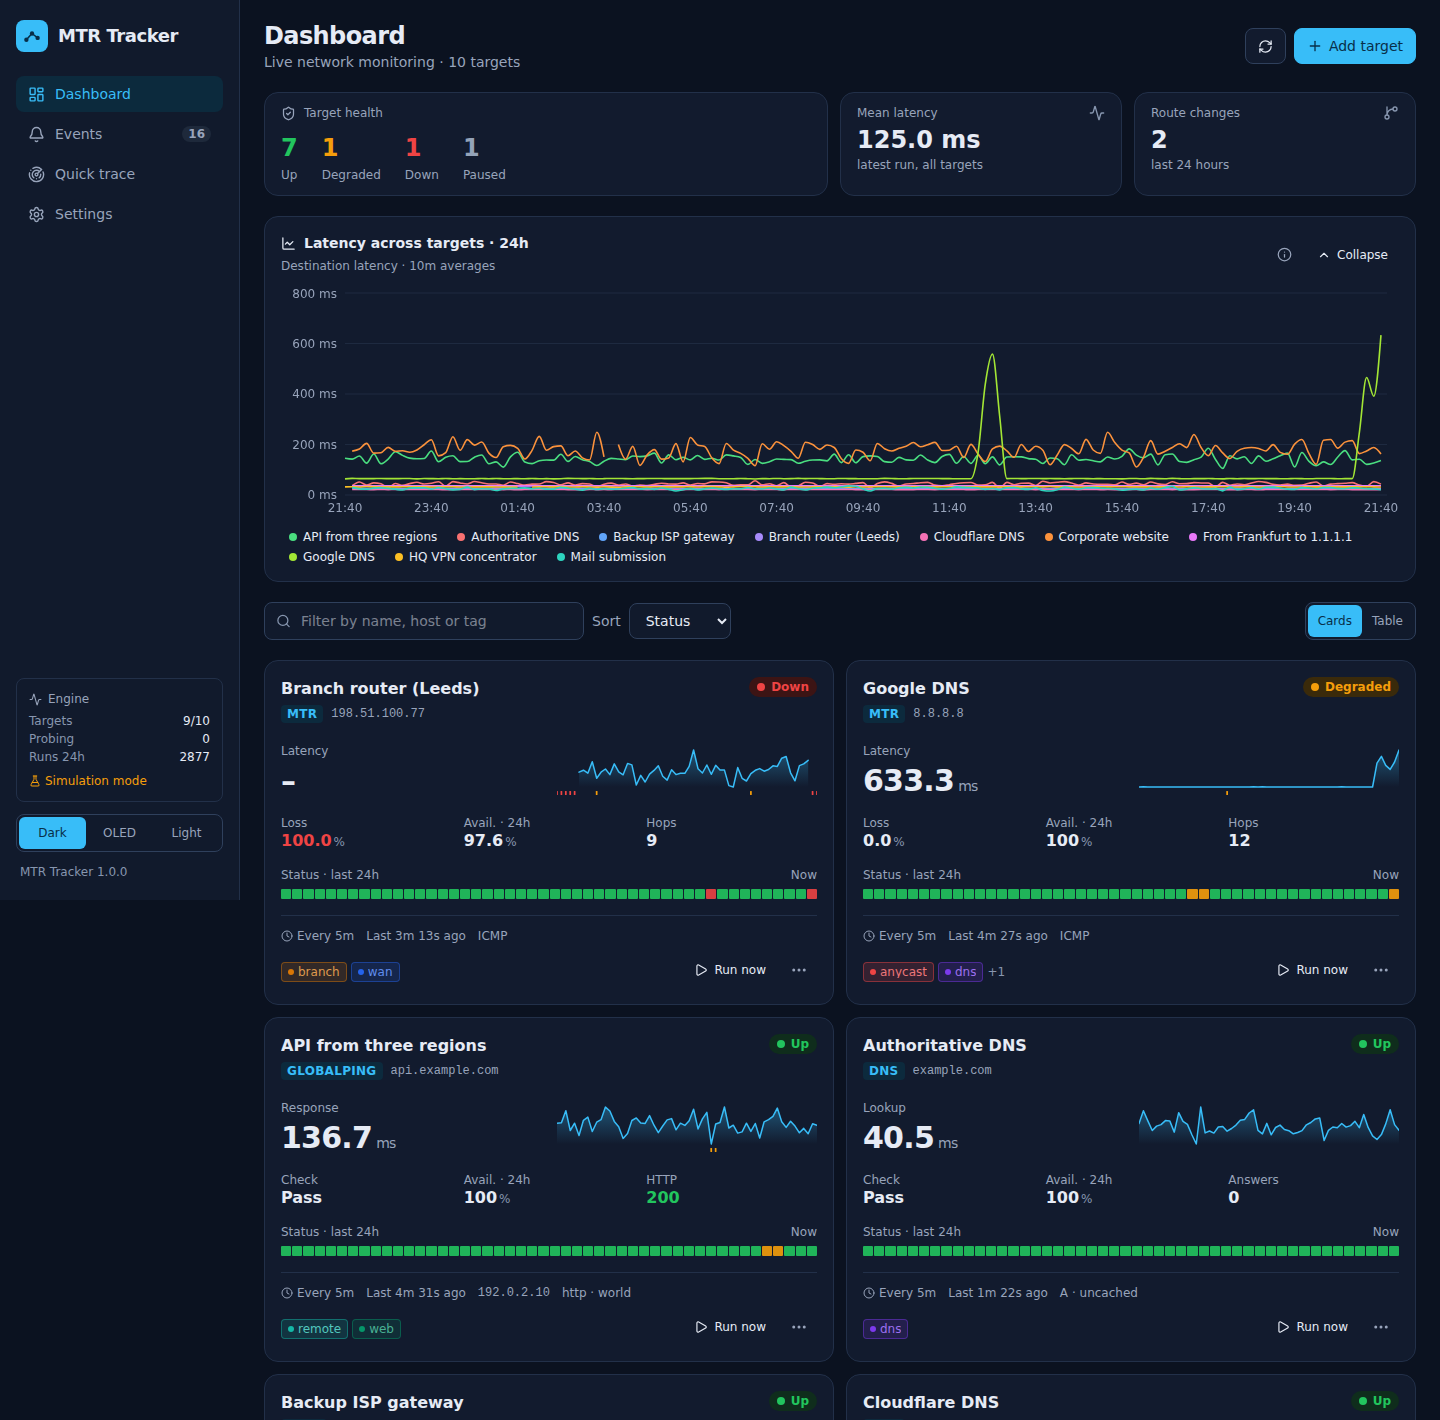
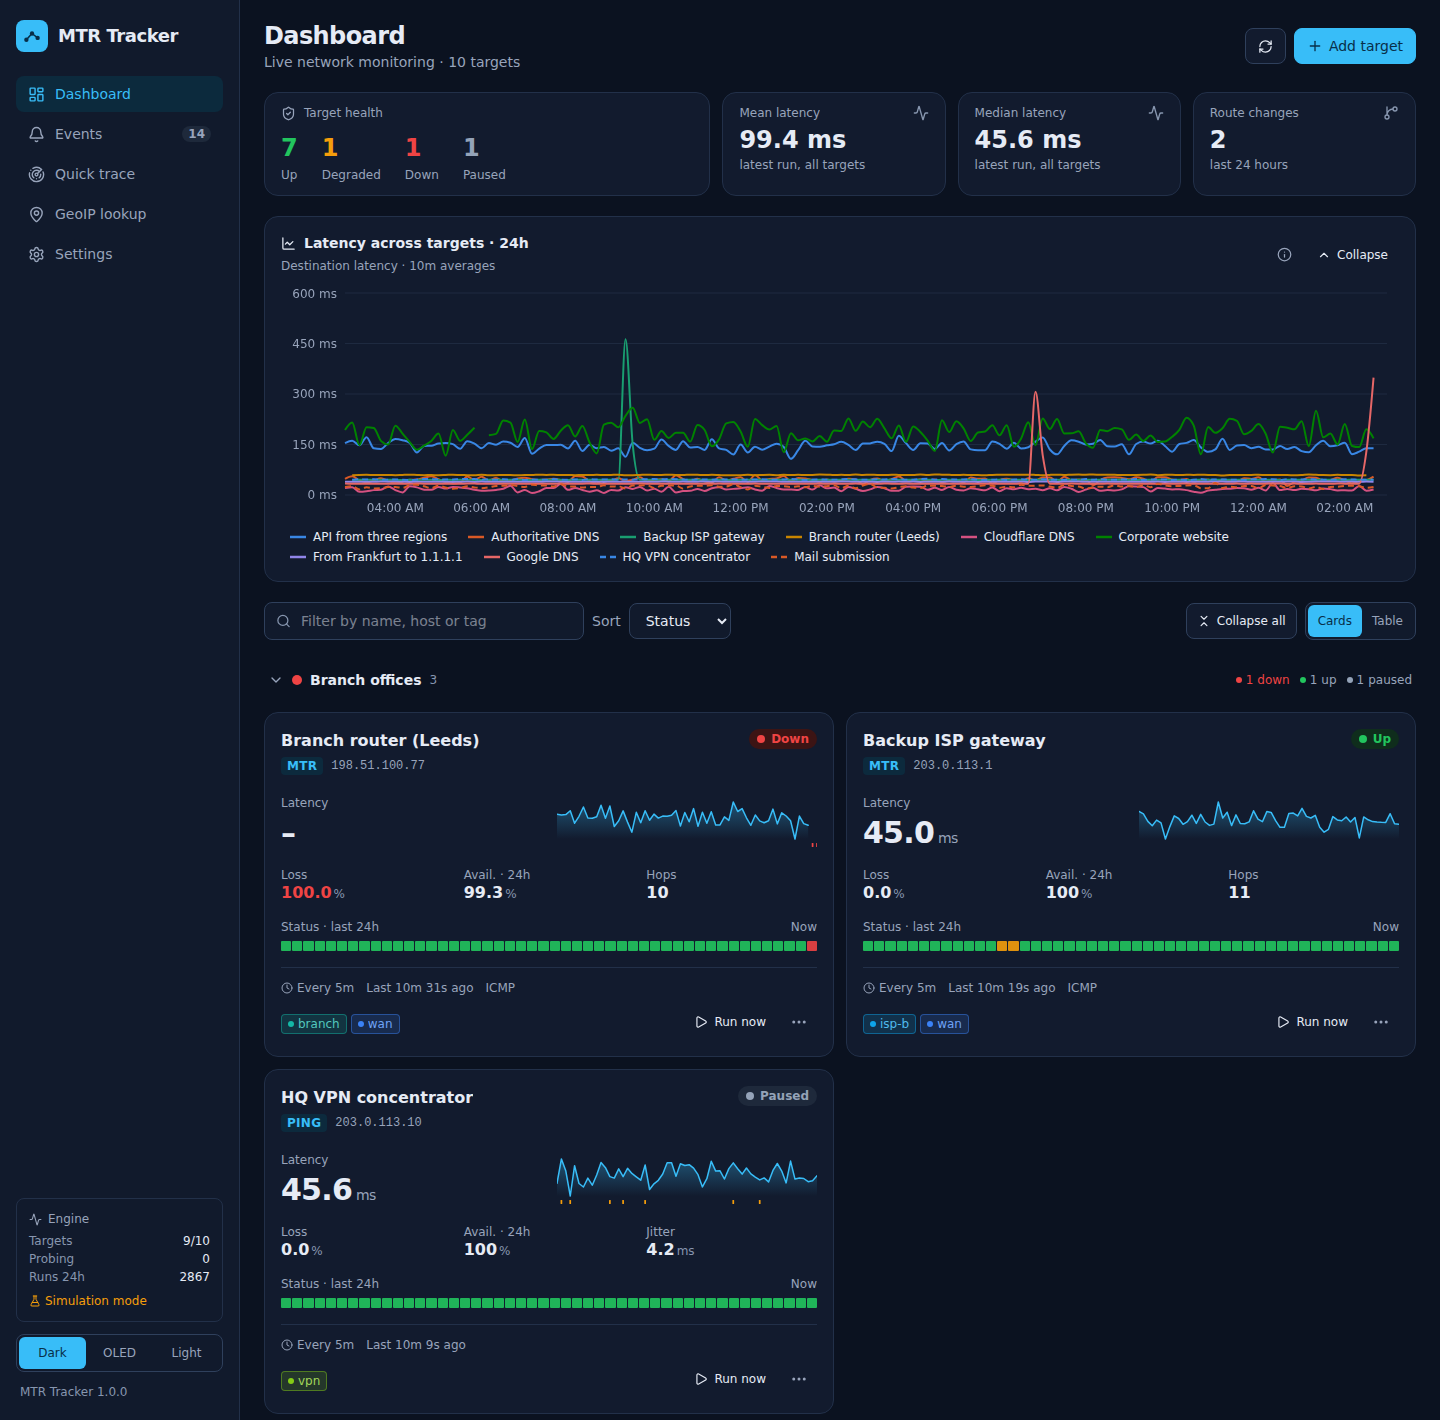
Retake the interface screenshots with groups and the status history
Every capture in docs/ is retaken from simulation mode with a seeded,
scripted week: ten targets in three groups plus one ungrouped, a few
scripted outages, loss and latency incidents and reroutes instead of the
simulator's random noise. New captures show collapsed groups and the
Status history tab; the README embeds the groups capture and the gallery
notes how the week is seeded.

Two small fixes found while checking the captures: time axes leave about
80 px per label (64 crowded the half-width loss chart), and the latency
distribution's axis shows one decimal when its span is under 10 ms instead
of repeating "39 ms". The path summary's alternate-address toggle now
reports aria-expanded.

Claude-Session: https://claude.ai/code/session_01G3hMwdE7W5rdXzPgFx6WRp

diff --git a/frontend/src/components/Visuals.tsx b/frontend/src/components/Visuals.tsx
@@ -270,7 +270,7 @@ export const LatencyHistogram = memo(function LatencyHistogram({ points, height 
           return (
           <ComposedChart width={width} height={height} data={rows} margin={{ top: 6 + rowCount * HIST_LABEL_ROW_H, right: HIST_MARGIN_RIGHT, bottom: 0, left: 0 }}>
             <CartesianGrid stroke="var(--chart-grid)" vertical={false} />
-            <XAxis dataKey="x" type="number" domain={edges} tickFormatter={(v: number) => fmtNum(v, 0)} tick={{ fontSize: 12, fill: "var(--text-muted)" }} axisLine={false} tickLine={false} unit=" ms" />
+            <XAxis dataKey="x" type="number" domain={edges} tickFormatter={(v: number) => fmtNum(v, edges[1] - edges[0] < 10 ? 1 : 0)} tick={{ fontSize: 12, fill: "var(--text-muted)" }} axisLine={false} tickLine={false} unit=" ms" />
             <YAxis tick={{ fontSize: 12, fill: "var(--text-muted)" }} axisLine={false} tickLine={false} width={HIST_Y_AXIS_W} allowDecimals={false} />
             <Tooltip
               isAnimationActive={false}

diff --git a/frontend/tests/gui.test.tsx b/frontend/tests/gui.test.tsx
@@ -263,7 +263,10 @@ describe("detail navigation", () => {
     expect(within(within(table).getAllByRole("row")[1]).getByText("3 silent")).toBeTruthy();
     // The ASN cell names the organisation under the number, as the hop table does.
     expect(within(within(table).getAllByRole("row")[1]).getAllByRole("cell")[2].textContent).toBe("AS64500Example Transit GmbH");
-    await user.click(screen.getByRole("button", { name: "1 alternate address seen at this hop" }));
+    const toggle = screen.getByRole("button", { name: "1 alternate address seen at this hop" });
+    expect(toggle.getAttribute("aria-expanded")).toBe("false");
+    await user.click(toggle);
+    expect(toggle.getAttribute("aria-expanded")).toBe("true");
     const rows = within(table).getAllByRole("row");
     expect(rows).toHaveLength(3);
     expect(within(rows[2]).getByText("alternate.example")).toBeTruthy();

diff --git a/frontend/src/utils.ts b/frontend/src/utils.ts
@@ -78,8 +78,8 @@ export function timeTicks(domain: [number, number], plotWidth: number): number[]
   const [start, end] = domain;
   const span = end - start;
   if (!(span > 0)) return [start];
-  // n labels need n - 1 gaps of about 64 px ("12:00 PM" at 12 px plus air).
-  const maxTicks = Math.max(2, Math.floor(plotWidth / 64) + 1);
+  // n labels need n - 1 gaps of about 80 px ("12:00 PM" at 12 px is about 56 px, plus air between labels).
+  const maxTicks = Math.max(2, Math.floor(plotWidth / 80) + 1);
   const stepMin = TICK_STEPS_MIN.find((s) => span / (s * 60_000) <= maxTicks) ?? Math.ceil(span / 60_000 / maxTicks / 10080) * 10080;
   const step = stepMin * 60_000;
   // Align to the browser's local clock, so ticks land on 14:00 or midnight rather than on UTC boundaries.

diff --git a/frontend/src/components/PathSummary.tsx b/frontend/src/components/PathSummary.tsx
@@ -55,7 +55,7 @@ function Row({ hop, entry, alt, altCount, silentRuns, expanded, onToggle, maxAvg
       <td className="font-sans">
         <div className="flex items-center gap-1.5">
           {!alt && altCount > 0 ? (
-            <button className="text-faint hover:text-text" onClick={onToggle} title={`${altCount} alternate address${altCount > 1 ? "es" : ""} seen at this hop`}>
+            <button className="text-faint hover:text-text" onClick={onToggle} aria-expanded={expanded} title={`${altCount} alternate address${altCount > 1 ? "es" : ""} seen at this hop`}>
               {expanded ? <ChevronDown size={14} /> : <ChevronRight size={14} />}
             </button>
           ) : (

diff --git a/CLAUDE.md b/CLAUDE.md
@@ -89,7 +89,7 @@ docker compose up -d --build
 - **Series endpoint** returns raw runs up to `max_points`, otherwise buckets server-side; the chart handles both (`bucket_sec` in the response).
 - **Time axes** on every time-based visual (RTT chart, overview, route strip) start at `max(range start, first data point)` so a fresh target is readable; keep new visuals consistent with that rule. The hour-by-day heatmap receives UTC hour buckets and folds them into the browser's local time.
 - **Series colours** (multi-series charts: latency across targets, route timeline): `seriesColor(i)` / `seriesDash(i)` in `utils.ts` take the series' position on the chart, never a database id (ids modulo the palette made targets 1 and 13 identical). The colours are the CSS variables `--series-1`…`--series-8` in `index.css` (a validated categorical palette: blue, orange, aqua, yellow, magenta, green, violet, red; light steps on `:root`, dark steps on `dark` and `oled`; the order keeps neighbours apart for colour-blind readers, so do not reorder or add hues). Past eight, series repeat the colours with `SERIES_DASHES` patterns; `SeriesSwatch` draws the colour and pattern for legends and tooltips. Light mode's aqua, yellow and magenta sit below 3:1 against white, which the always-visible legend and the tooltip compensate for.
-- **Charts** use explicit pixel sizes via the `Sized` ResizeObserver wrapper in `Charts.tsx`; Recharts' ResponsiveContainer and `responsive` prop are intentionally not used. Every time axis takes explicit `ticks` from `timeTicks(domain, plotWidth)` (round local-time steps, about one label per 64 px, labels by `fmtAxisTime`: the date alone at local midnight on a multi-day axis) with `minTickGap={4}`: without them Recharts treats every data point as a tick candidate and formatted and measured thousands of labels per render, which froze the target page for seconds on a phone. `fmtTime` uses cached `Intl.DateTimeFormat`s for the same reason. The chart components are `memo`ised and `TargetDetail` hands them stable props (`NO_POINTS`, `openRun`, `profileRows`), so a re-render that changes nothing they draw skips them. Route-change markers on the latency chart come from `thinRouteChanges(rows, domain, plotWidth)`: every flagged run over the whole range, dropped only when it would sit within 3 px of the previous marker, so density is uniform and nothing older is cut off (the former "last 60" cap hid everything but the latest hours on an ECMP path).
+- **Charts** use explicit pixel sizes via the `Sized` ResizeObserver wrapper in `Charts.tsx`; Recharts' ResponsiveContainer and `responsive` prop are intentionally not used. Every time axis takes explicit `ticks` from `timeTicks(domain, plotWidth)` (round local-time steps, about one label per 80 px, labels by `fmtAxisTime`: the date alone at local midnight on a multi-day axis) with `minTickGap={4}`: without them Recharts treats every data point as a tick candidate and formatted and measured thousands of labels per render, which froze the target page for seconds on a phone. `fmtTime` uses cached `Intl.DateTimeFormat`s for the same reason. The chart components are `memo`ised and `TargetDetail` hands them stable props (`NO_POINTS`, `openRun`, `profileRows`), so a re-render that changes nothing they draw skips them. Route-change markers on the latency chart come from `thinRouteChanges(rows, domain, plotWidth)`: every flagged run over the whole range, dropped only when it would sit within 3 px of the previous marker, so density is uniform and nothing older is cut off (the former "last 60" cap hid everything but the latest hours on an ECMP path).
 - **Dashboard and detail navigation**: Dashboard shows health summaries (target counts, Mean latency and Median latency of the latest runs computed client-side from `latest_run.avg_ms`, 24-hour route changes), then the optional Latency across targets comparison chart, followed by filters and target cards/table. `TargetDetail` keeps statistics and charts on one page, including the path profile (or latest check), distribution and hourly heatmap. Below them, one `Tabs` bar contains Current path, Path history, Path summary · [range], Status history, Runs and Events. Non-path probes offer Status history, Runs and Events, falling back to Runs when a saved path tab is inapplicable. The tab is remembered under `mtr-tracker.tab`; obsolete `mtr-tracker.detail-view` and `mtr-tracker.path-tab` preferences are ignored.
 - **Target controls**: `Run now` stays visible; `TargetActions` supplies Pause/Resume, Edit, Clone and Delete through `ActionMenu` (plus "Clear history…" before Delete when `onClearHistory` is passed, which only the target page does, so the dashboard menus and their keyboard tests are unchanged). `Popover` portals menus and help to `document.body` so table/card clipping cannot hide them. Preserve Escape/outside-click dismissal and keyboard focus handling; `Tabs` supports Left/Right/Home/End, and action menus support Up/Down/Home/End.
 - **Hop tables and legends**: `HopTable` shows all 14 original columns by default, including full hostnames/IPs, ASN, Snt/Rcv, Last/Avg/Best/Wrst, StDev, Jitter/Jmax and the latency bar. The optional `compact` prop omits only ASN, Rcv and Jmax; current path, run detail and quick trace use the full default. The ASN cell (`NetworkCell`, shared with `PathSummary`) prints the organisation's name under the number: `GET /api/runs/{id}`, `GET /api/targets/{id}/hops/summary` (primary and alternates) and `POST /api/probe` run their hop dicts through `geoip.name_networks(hops, settings)`, which prefetches ip-api.com once for the list and applies the `_network_fields` rule (`asn` kept, provider's number when none was stored, `as_name` only when it belongs to that number). There is no column selector and obsolete `mtr-tracker.hop-columns` preferences are ignored. Tables use natural height and horizontal scrolling without truncating hop identities. `HeatLegend` is shared by hop history and the hourly heatmap: loss uses fixed percent stops, latency/jitter use the displayed data's maximum in milliseconds, and no response/no data have distinct markers.
@@ -106,6 +106,6 @@ docker compose up -d --build
 - **Pushover end-to-end encryption** (`settings.pushover_encryption_key`, 64 hex characters, normalised to lower case by `SettingsUpdate`; empty = off): `send_pushover` truncates to Pushover's limits first (message 1024, title 250, url 512, url_title 100), then runs each of `PUSHOVER_ENCRYPTED_FIELDS` through `notify.pushover_encrypt` (GZIP, AES-256-CBC/PKCS7 with a random 16-byte IV, HMAC-SHA256 over IV + ciphertext with the same key, Base64 of IV + ciphertext + HMAC, as https://pushover.net/api#e2ee specifies; the `cryptography` package) and adds `encrypted=1`; a malformed stored key raises `NotifyError` rather than sending clear text. `redact_settings` masks it completely (`_HIDDEN_KEYS`). Tests decrypt with the `openssl` CLI as an independent implementation. The Settings field's helpers `randomKeyHex` and `pushoverKeyState` live in `utils.ts`.
 - **Notifications**: add a channel by extending `notify.dispatch_event` and `notify.wanted`, `DEFAULT_SETTINGS` in `db.py`, `SettingsUpdate` in `models.py`, the `Settings` interface in `api.ts` and the Settings page. Delivery errors raise `NotifyError` (surfaced by `POST /api/notifications/test`, logged by the scheduler). Tests mock HTTP by setting `notify._TRANSPORT` to an `httpx.MockTransport`.
 - **Raw sockets**: the container runs as uid 1000; `mtr-packet` and `ping` carry the `cap_net_raw` file capability (Debian sets it, the Dockerfile repeats it) and NET_RAW must be in the container's capability set (compose grants it). Outside Docker, `apt install mtr-tiny iputils-ping` does the same. Root is only required for probe intervals below 1 s.
-- **Screenshots** in `docs/` are taken with headless Chromium against simulation mode; regenerate them if the UI changes materially.
+- **Screenshots** in `docs/` are taken with headless Chromium against simulation mode with a seeded, scripted week (see "Regenerating these captures" in `docs/screenshots.md`); regenerate them if the UI changes materially. `PathSummary`'s alternate-address toggle carries `aria-expanded`; the latency distribution's axis shows one decimal when its whole span is under 10 ms.
 - **Validation**: `.github/workflows/ci.yml` runs backend pytest against a `postgres:16-alpine` service (`MTR_TRACKER_TEST_DATABASE_URL`) and the frontend build plus `npm test`, then validates `docker-compose.yml` with `docker compose config` and builds the Docker image. Component tests mock API calls and chart sizing; they do not replace visual checks of real charts, scrolling, popover placement and all three themes. Keep README and the interface guide aligned with visible labels and probe-specific navigation.
 - **Documentation is part of every change.** A change to behaviour, an endpoint, a setting or anything visible in the UI updates, in the same commit, this file (the relevant convention bullet), the README (features, configuration, API table, project layout as applicable) and `docs/interface.md` (labels, controls, keyboard handling). A change is not finished while the docs describe the old behaviour.

diff --git a/docs/screenshots.md b/docs/screenshots.md
@@ -1,26 +1,30 @@
 # Interface screenshots
 
-These captures show the current MTR Tracker interface. They were taken with headless Chromium against the application running in simulation mode (`MTR_TRACKER_SIMULATE=1`) with a week of seeded history: ten targets covering every probe type, scripted outages, loss and latency incidents and route changes. Use the [interface guide](interface.md) for navigation and controls, or return to the [README](../README.md).
+These captures show the current MTR Tracker interface. They were taken with headless Chromium against the application running in simulation mode (`MTR_TRACKER_SIMULATE=1`) with a week of seeded history: ten targets covering every probe type, in three groups plus one ungrouped target, with scripted outages, loss and latency incidents and route changes. Use the [interface guide](interface.md) for navigation and controls, or return to the [README](../README.md).
 
 Desktop captures use a 1440 px wide viewport and the dark theme unless stated otherwise; phone captures use a 390 px wide viewport.
 
 ## Dashboard
 
-Health summary, the **Latency across targets** comparison chart, filters and target cards.
+Health summary, the **Latency across targets** comparison chart, filters and target cards, here in the first group (**Branch offices**).
 
 ![Dashboard with health summary, latency comparison chart and target cards](dashboard.png)
 
-The **Table** view of the same targets.
+Groups collapse to one heading each. A collapsed group still counts its targets per state, and its dot takes the colour of the worst one: **DNS** holds a degraded target.
+
+![Dashboard with Branch offices open and the DNS, Web services and Ungrouped groups collapsed](dashboard-groups.png)
+
+The **Table** view of the same targets, with a heading row per group.
 
 ![Dashboard table view](dashboard-table.png)
 
 ## Target page
 
-Header, range selector, current and range statistics, the 24-hour status strip and the time-series charts. The dashed line on the latency chart marks a route change; the route timeline below it shows which path was in use when.
+Header (with the target's group), range selector, current and range statistics, the status strip for the selected range and the time-series charts. The dashed lines on the latency chart mark route changes; the route timeline below it shows which path was in use when.
 
 ![Target page with statistics, latency chart, route timeline, loss and jitter](target.png)
 
-Path profile, latency distribution with percentile markers and the hour-by-day heatmap.
+Path profile, latency distribution with percentile markers and the hour-by-day heatmap, over seven days for a Globalping MTR target. Hop 5 answers no probe, which the profile shows as a loss bar.
 
 ![Path profile, latency distribution and hourly heatmap](target-visuals.png)
 
@@ -37,6 +41,10 @@ Path profile, latency distribution with percentile markers and the hour-by-day h
 **Path summary**: per-hop statistics over the range with an alternate address expanded at hop 4.
 
 ![Path summary with an alternate address expanded](path-summary.png)
+
+**Status history**: the up, degraded and down periods of the range (seven days here), with the time spent in each status, the alert that began each period and its run.
+
+![Status history tab](status-history.png)
 
 **Runs**: paginated run history with result filters. The two most recent runs of this target failed to reach the destination.
 
@@ -55,6 +63,8 @@ A Globalping HTTP measurement from three remote probes, each listed with its res
 ## Events and target form
 
 ![Events page](events.png)
+
+The add form with the new **Group** field, which suggests the groups already in use.
 
 ![Add target form](target-form.png)
 
@@ -75,6 +85,6 @@ Light theme on a target page and the OLED (true black) theme on the dashboard.
 ## Regenerating these captures
 
 1. Build the frontend (`npm run build` in `frontend/`) and start the backend in simulation mode with an empty data directory, using IP-literal or fictional hosts, reverse DNS disabled and notification channels disabled.
-2. Seed history rather than waiting for it: call `Scheduler._execute` for each target at backdated timestamps (patch `time.time`), so the rows are exactly what the scheduler writes. Park `next_run_at` in the future afterwards so the live scheduler does not add runs while capturing.
+2. Seed history rather than waiting for it: call `Scheduler._execute` for each target at backdated timestamps (patch `time.time`, and make the simulator's `asyncio.sleep` return at once), so the rows are exactly what the scheduler writes. The simulators' own dice add a random route flip, incident or failed check every few runs, far noisier than a real week; give `mtr`, `probes` and `globalping` a `random.Random` subclass whose direct rolls from a `_simulate*` function never fall below 0.05, and script the incidents instead (`mtr._SIM_STATE[dst]`: `incident`, `incident_hop`, `incident_kind`, or a hop's `ip` for a reroute). A loss threshold of 20% keeps the simulator's rate-limited hops from flagging every run. The fast clock leaves every run with a near-zero duration, so set `duration_ms` and `finished_at` to realistic values per probe type afterwards. Park `next_run_at` in the future so the live scheduler does not add runs while capturing.
 3. Capture with headless Chromium (Playwright) at 1440 px wide, clipping each section to its card, and again at 390 px wide for the phone layout. Move the pointer away from charts before capturing so no tooltip is open.
-4. Include the dashboard, a target page with the full Current path table, Path history, Path summary with alternate addresses expanded, Runs, a non-path probe, the events page and all three themes. Check each image against the current interface before replacing the files.
+4. The theme preference (`mtr-tracker.theme`) is stored as plain text, every other preference as JSON. Include the dashboard (cards with groups open and collapsed, and the table), a target page with the full Current path table, Path history, Path summary with alternate addresses expanded, Status history, Runs, a non-path probe, the events page and all three themes. Check each image against the current interface before replacing the files.

diff --git a/README.md b/README.md
@@ -16,7 +16,11 @@ All captures show the current interface running in simulation mode with a week o
 
 ![Dashboard with health summary, latency comparison chart and target cards](docs/dashboard.png)
 
-**Target page**: current and range statistics, the status strip, round-trip time with a route-change marker, the route timeline, packet loss and jitter.
+**Groups**: each group collapses to one heading that still counts its targets per state.
+
+![Dashboard with one group open and three collapsed](docs/dashboard-groups.png)
+
+**Target page**: current and range statistics, the status strip for the selected range, round-trip time with route-change markers, the route timeline, packet loss and jitter.
 
 ![Target page with statistics, latency chart, route timeline, loss and jitter](docs/target.png)
 
